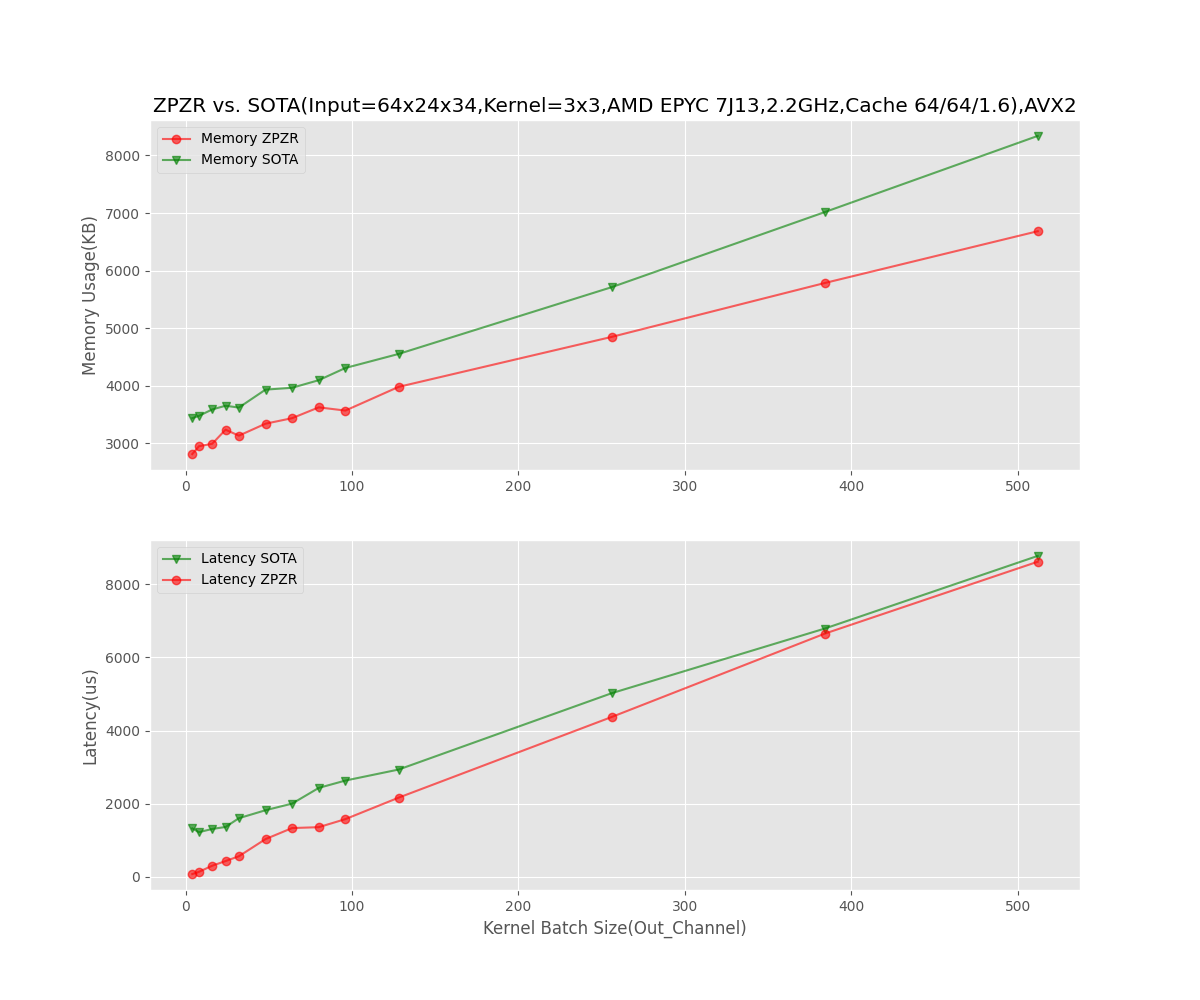
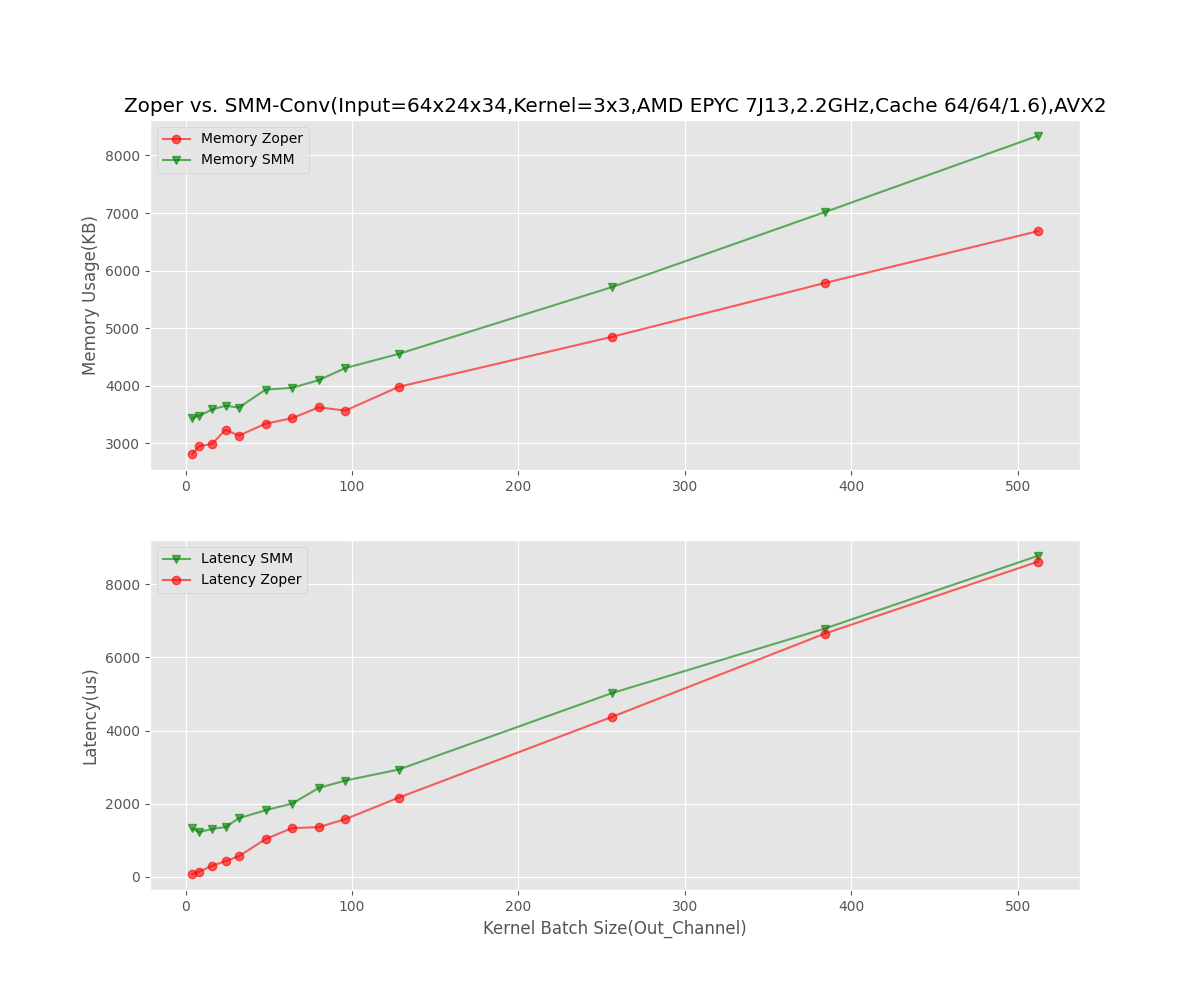
paper

Changed region(s): [[0.0925, 0.093, 0.925, 0.186], [0.2158, 0.558, 0.2467, 0.589]]

diff --git a/tutorial/paper/fma/smm_conv.cpp b/tutorial/paper/fma/smm_conv.cpp
@@ -79,9 +79,9 @@ long long run(int run_flag, int input_height, int input_width, int input_channel
 
 
 int main(int argc, char** argv) {
-  int input_width = 34, input_height = 800, input_channel = 256, filter_batch = 64, kernel_width = 3, kernel_height = 3, run_flag = 7;
+  int input_width = 34, input_height = 24, input_channel = 256, filter_batch = 64, kernel_width = 3, kernel_height = 3, run_flag = 7;
   if (argc >= 2 && strcmp(argv[1], "-h") == 0) {
-    std::cout << argv[0] << " filter_batch=32 input_channel=256 input_height=800 input_width=34 run_flag=2 kernel_width=3" << std::endl;
+    std::cout << argv[0] << " filter_batch=32 input_channel=256 input_height=800 input_width=34 run_flag=7 kernel_width=3" << std::endl;
     return 0;
   }
   if (argc >= 2) {
